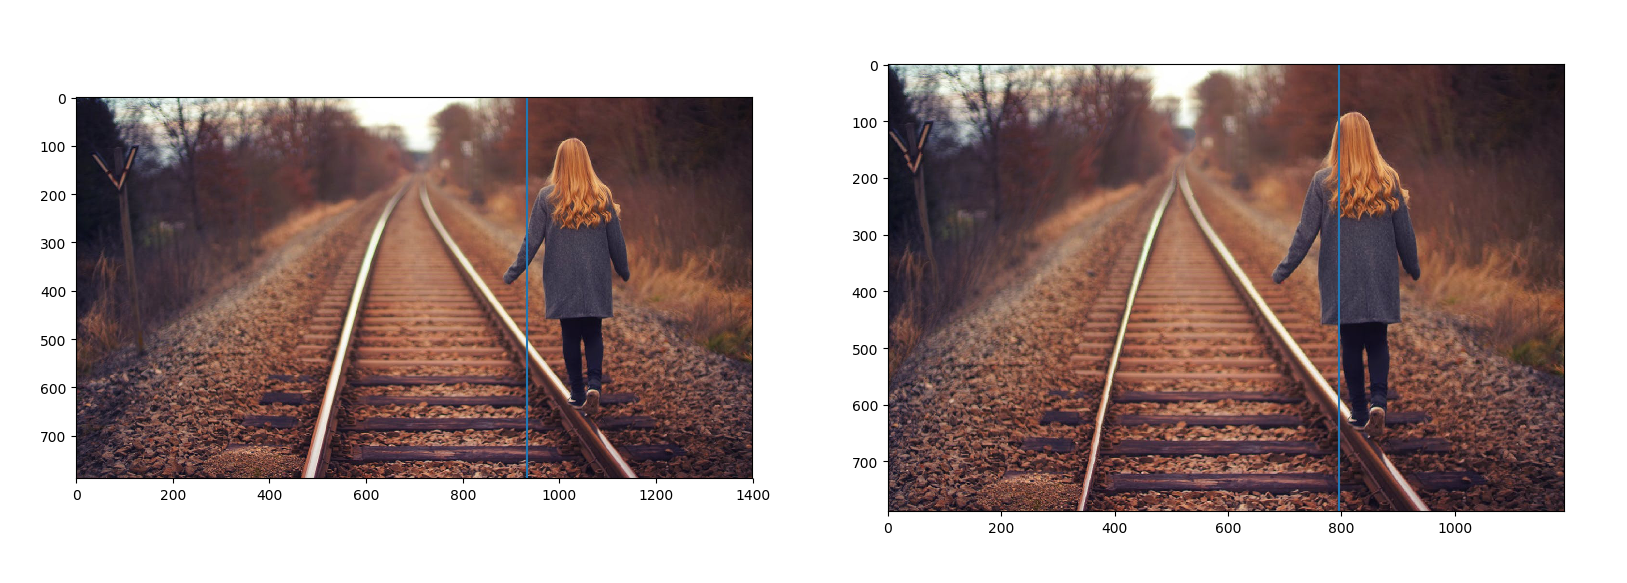
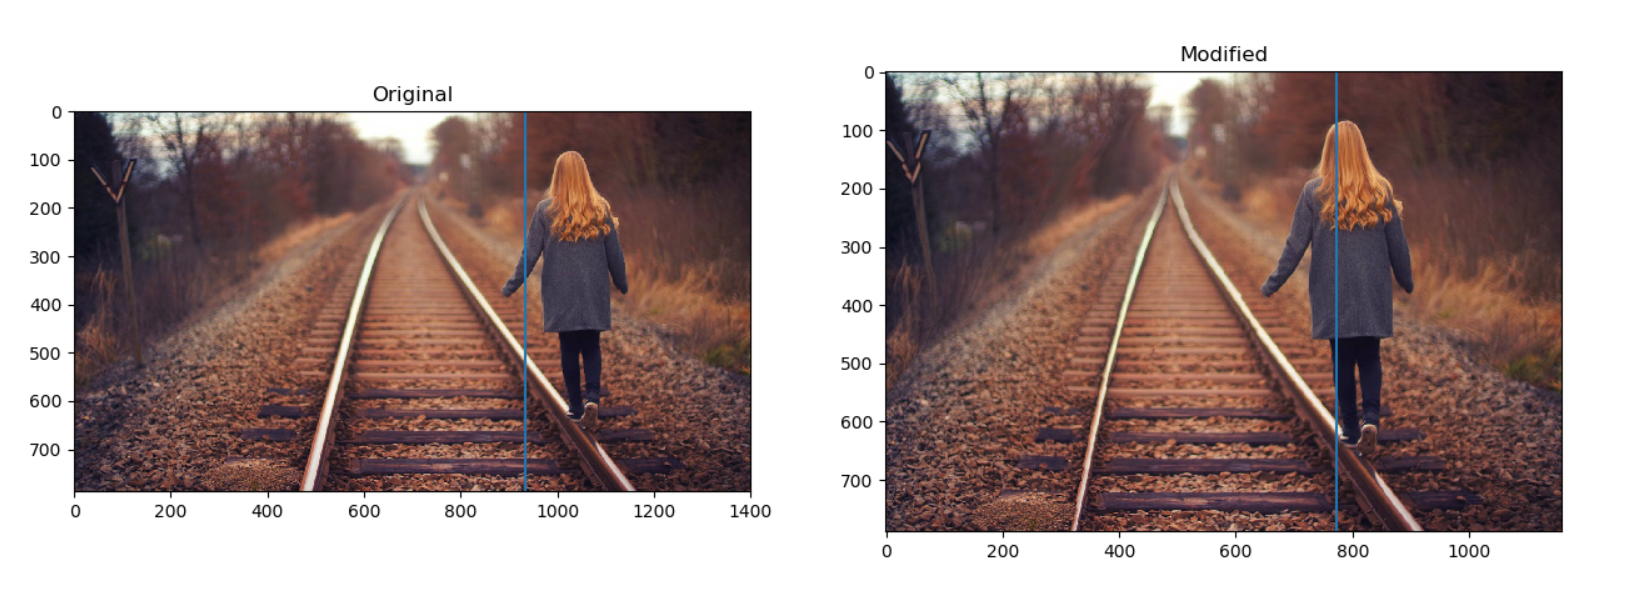
connected the two things

diff --git a/testing.py b/testing.py
@@ -6,17 +6,26 @@ from skimage import filters
 import cv2
 import rule
 import seam_adding
+import create_mrcnn
 
 f, axarr = plt.subplots(1, 2)
 
-im = plt.imread("images/railroad_girl.jpg", format='jpeg')
+im = plt.imread("images/lake.jpg", format='jpeg')
 print (im.shape)
-# im = im.astype('uint8')
-# print (im.shape)
-topleft = [56, 870]
-topright = [56, 1144]
-bottomleft = [644, 870]
-bottomright = [644, 1144]
+
+model, class_names = create_mrcnn.create_model()
+results = model.detect([im], verbose=1)
+r = results[0]
+
+for i in range(len(r['class_ids'])):
+	if r['class_ids'][i] == 1:
+		bbox = r['rois'][i]
+		topleft = [bbox[0], bbox[1]]
+		topright = [bbox[0], bbox[3]]
+		bottomleft = [bbox[2], bbox[1]]
+		bottomright = [bbox[2], bbox[3]]
+		print(bbox)
+		break
 
 axarr[0].imshow(im)
 
@@ -25,7 +34,13 @@ middle_pt = [(topleft[0]+bottomleft[0])/2, (topright[1]+topleft[1])/2]
 # Determine closest vertical line
 quad, line, isMiddle = rule.determineClosestVLine(middle_pt, im)
 
-axarr[0].axvline(x=line)
+if line is quad[2]:
+	axarr[0].axvline(x=quad[1])
+elif line is quad[3]:
+	axarr[0].axvline(x=quad[0])
+else:
+	axarr[0].axvline(x=line)
+
 print (isMiddle, line)
 if isMiddle:
 	if line is quad[0]:
@@ -147,7 +162,9 @@ else:
 
 		line -= 1
 		## bounding and midpoint no change
+axarr[0].set_title('Original')
 axarr[1].imshow(im)
+axarr[1].set_title('Modified')
 axarr[1].axvline(x=line)
 
 plt.show()
